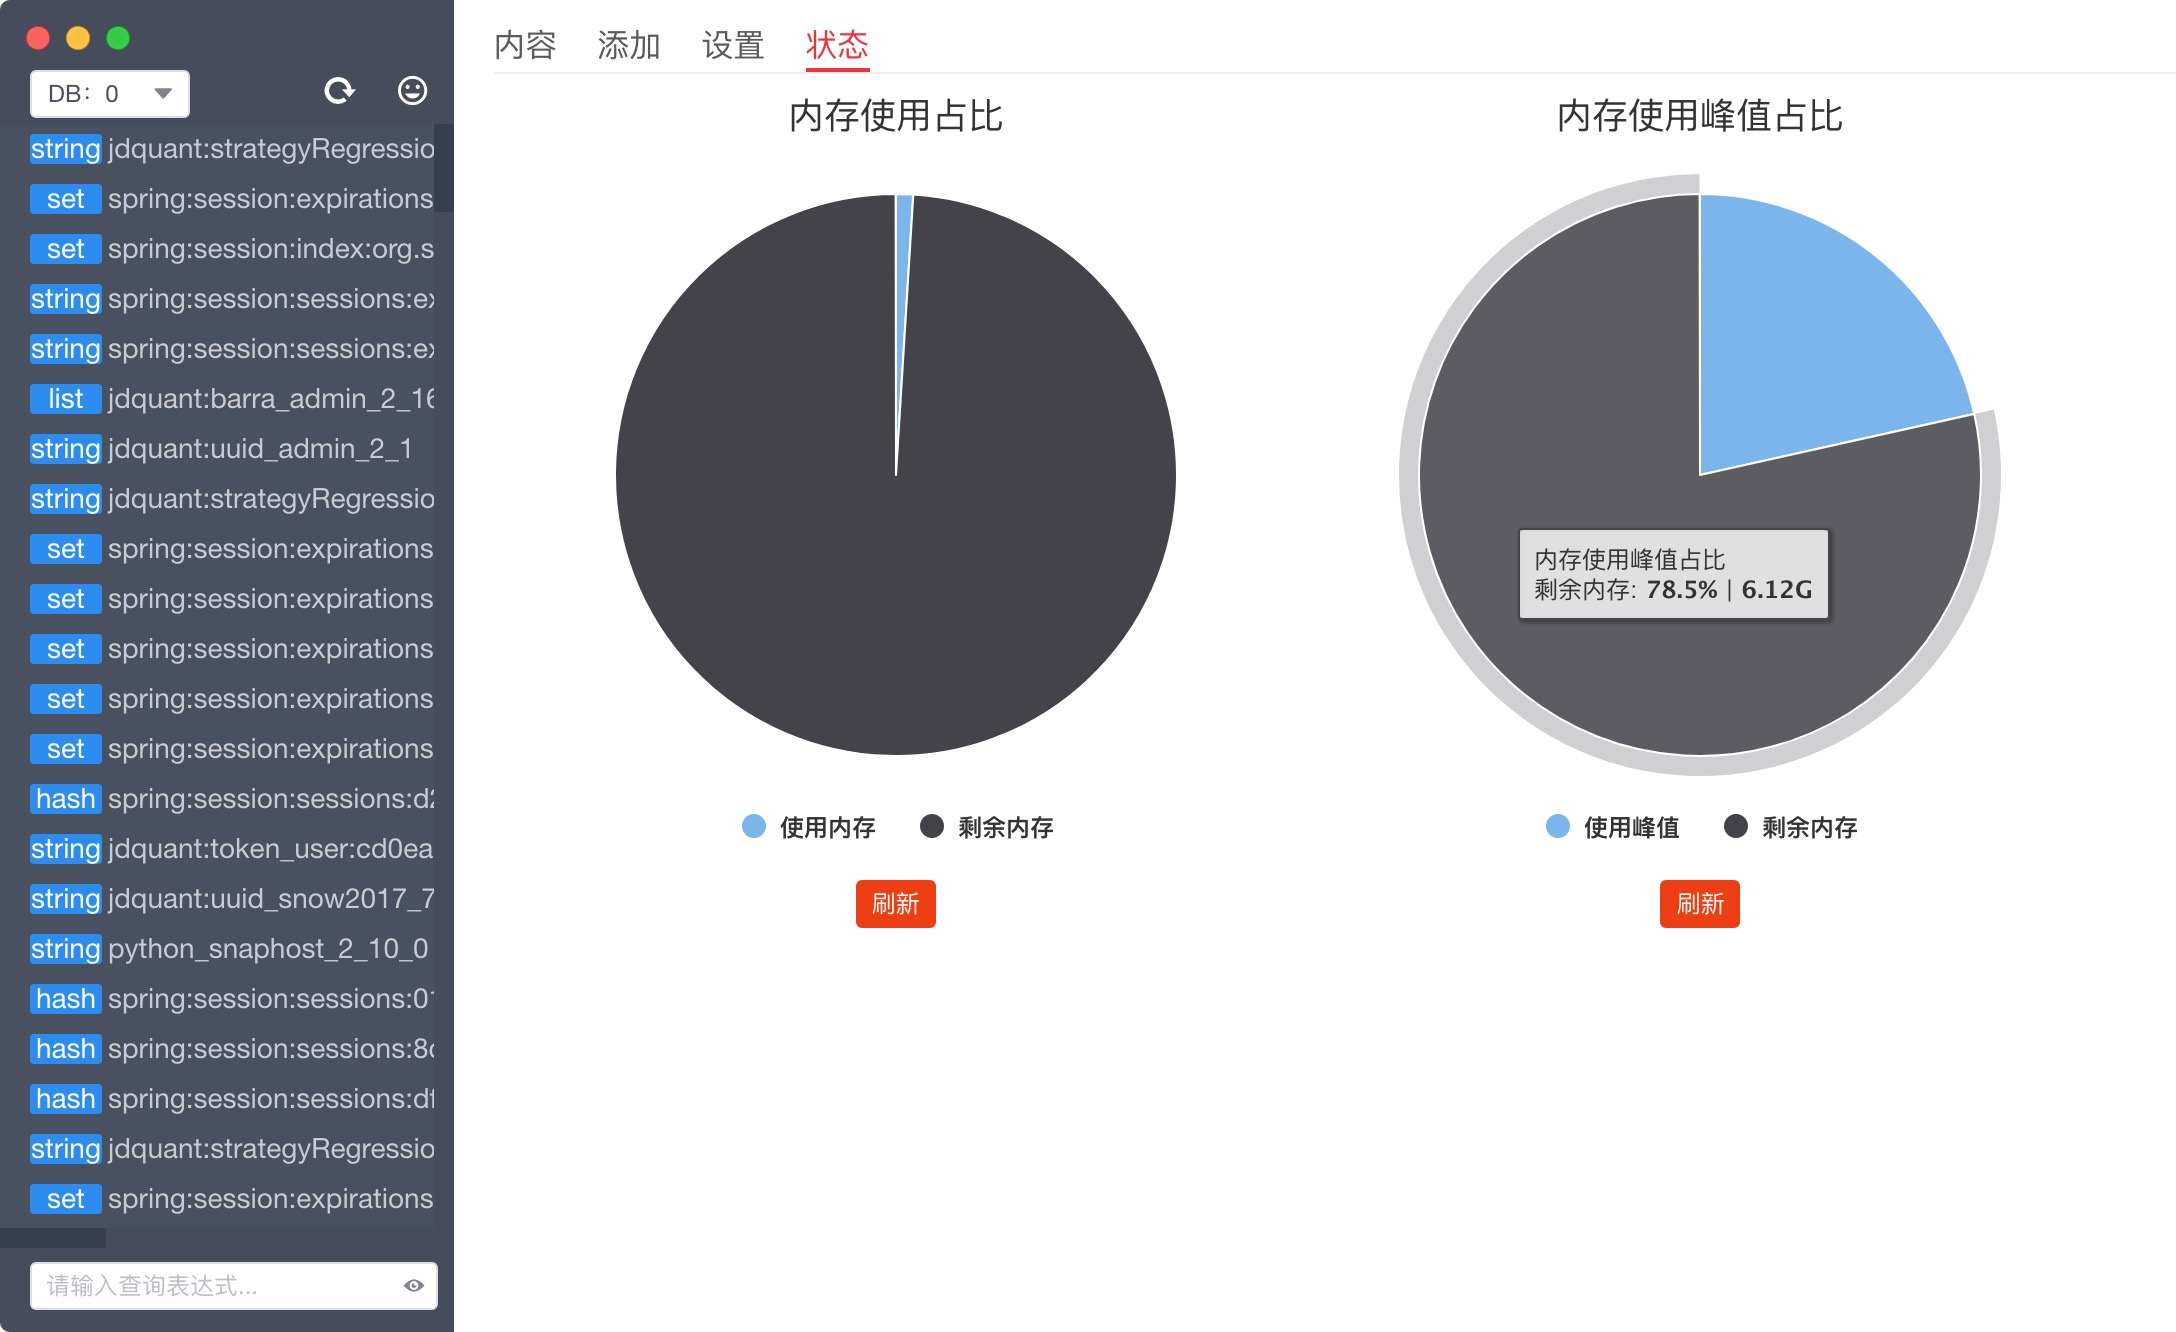
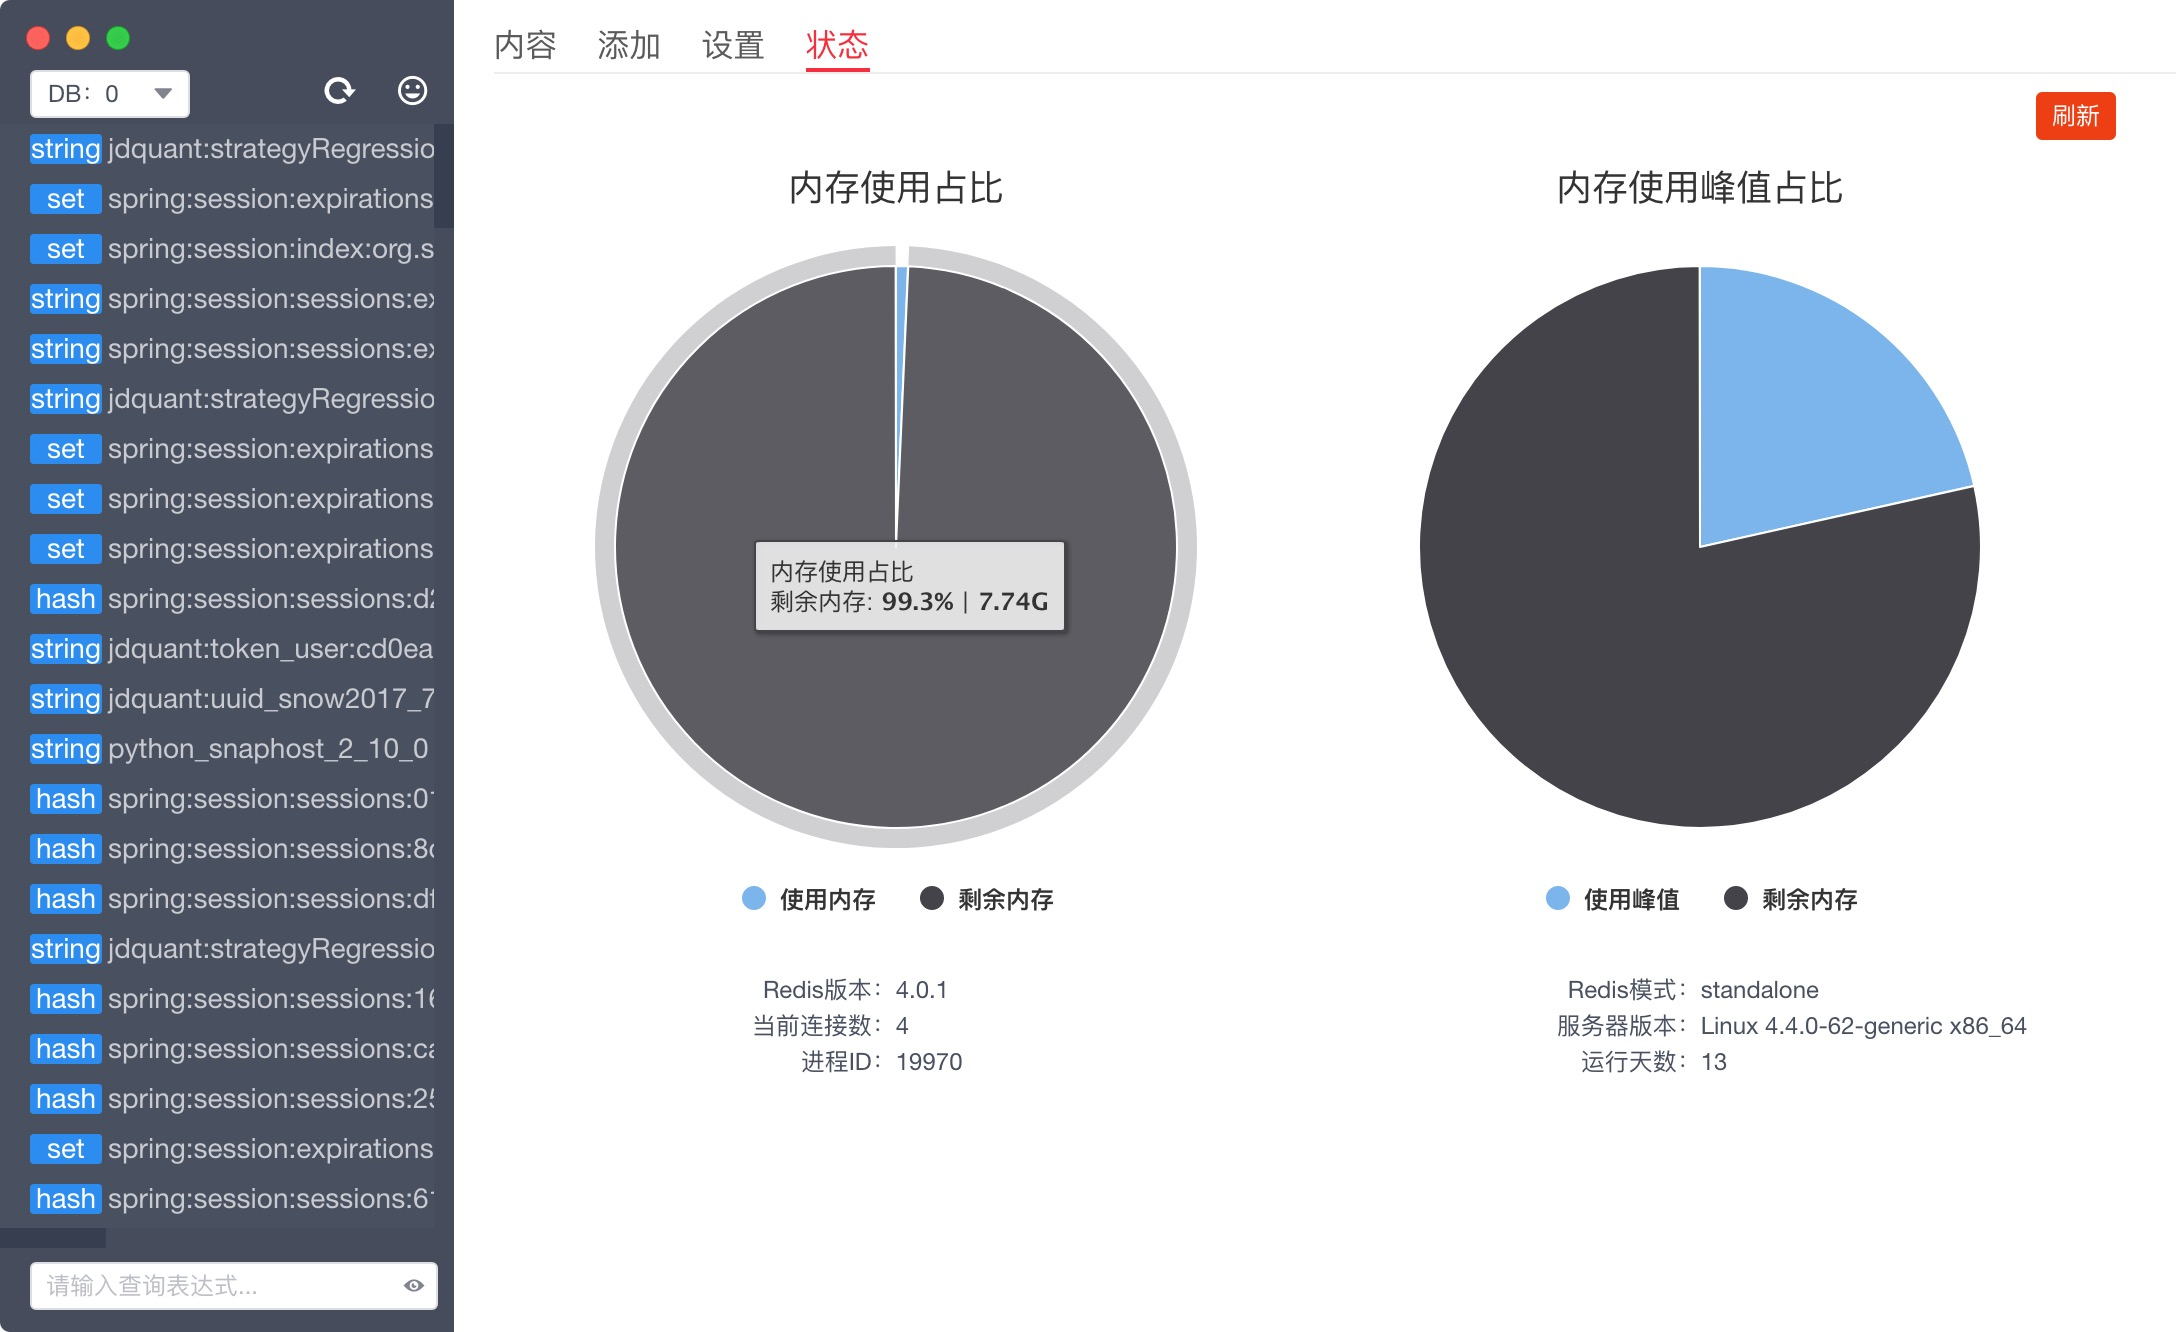
Update status page

diff --git a/src/components/Status.vue b/src/components/Status.vue
@@ -1,26 +1,70 @@
 <template>
     <div style="" id="statusDiv">
-        <!-- <div class="quyu clearfix">
+        <div class="quyu clearfix">
             <div class="q-left"></div>
-            <Button type="error" class="delete" size="small" @click="refreshStatus($route.params.key)">刷新</Button>
-            <a href="javascript:;" class="delete" @click="deleteKey($route.params.key)">删除</a>
-        </div> -->
+            <Button type="error" class="delete" size="small" @click="refreshStatus">刷新</Button>
+            <!--<a href="javascript:;" class="delete" @click="deleteKey($route.params.key)">删除</a>-->
+        </div>
         <div class="text-area">
-            <div style="width: 98%" class="clearfix">
+            <div style="width: 98%">
                 <Row align="middle">
                     <Col span="12">
-                    <div id="serverChart">
+                    <div style="height:400px" id="serverChart">
                     </div>
-                    <p style="text-align:center">
-                        <Button type="error" size="small" @click="refreshStatus">刷新</Button>
-                    </p>
+                    <!--<p style="text-align:center;">-->
+                        <!--<Button type="error" size="small" @click="refreshStatus">刷新</Button>-->
+                    <!--</p>-->
                     </Col>
                     <Col span="12">
-                    <div id="memoryChart">
+                    <div style="height:400px" id="memoryChart">
                     </div>
-                    <p style="text-align:center">
-                        <Button type="error" size="small" @click="refreshStatus">刷新</Button>
-                    </p>
+                    <!--<p style="text-align:center;">-->
+                        <!--<Button type="error" size="small" @click="refreshStatus">刷新</Button>-->
+                    <!--</p>-->
+                    </Col>
+                </Row>
+            </div>
+            <div style="width: 98%; margin-top: 10px">
+                <Row align="middle">
+                    <Col span="6" style="text-align: right">
+                    Redis版本：
+                    </Col>
+                    <Col span="6">
+                    {{serverInfo.redis_version}}
+                    </Col>
+                    <Col span="6" style="text-align: right">
+                    Redis模式：
+                    </Col>
+                    <Col span="6">
+                    {{serverInfo.redis_mode}}
+                    </Col>
+                </Row>
+                <Row align="middle">
+                    <Col span="6" style="text-align: right">
+                    当前连接数：
+                    </Col>
+                    <Col span="6">
+                    {{clientInfo.connected_clients}}
+                    </Col>
+                    <Col span="6" style="text-align: right">
+                    服务器版本：
+                    </Col>
+                    <Col span="6">
+                    {{serverInfo.os}}
+                    </Col>
+                </Row>
+                <Row align="middle">
+                    <Col span="6" style="text-align: right">
+                    进程ID：
+                    </Col>
+                    <Col span="6">
+                    {{serverInfo.process_id}}
+                    </Col>
+                    <Col span="6" style="text-align: right">
+                    运行天数：
+                    </Col>
+                    <Col span="6">
+                    {{serverInfo.uptime_in_days}}
                     </Col>
                 </Row>
             </div>
@@ -52,6 +96,8 @@
 <script>
     import Highcharts from 'highcharts';
     import $ from 'jquery';
+    const ipc = require('electron').remote.ipcMain;
+//    const ipc = require('electron').remote.ipcRenderer;
 
     require('highcharts/modules/exporting')(Highcharts);
     require('highcharts/highcharts-more')(Highcharts);
@@ -64,7 +110,10 @@
                 delDBModel: false,
                 modalLoading: false,
                 memoryData: [],
-                memoryPeakData: []
+                memoryPeakData: [],
+                clientInfo: {connected_clients: 0},
+                serverInfo: {},
+                dbInfo: {}
             }
         },
         computed: {
@@ -75,7 +124,6 @@
         methods: {
             refreshStatus: function () {
                 let self = this;
-                $('#serverChart').html('');
                 let usedMemory = {};
                 let totalMemory = {};
                 let usedMemoryPeak = {};
@@ -125,9 +173,67 @@
                         console.log(res);
                         alert(res);
                     });
+                    self.redis.info("clients").then(function (result) {
+                        console.log(result.split('\n'));
+                        result.split('\n').forEach(function (element) {
+                             if (element.indexOf('connected_clients:') >= 0) {
+                                 self.clientInfo.connected_clients = parseFloat(element.replace('connected_clients:', ''));
+                             }
+                             if (element.indexOf('client_biggest_input_buf:') >= 0) {
+                                 self.clientInfo.client_biggest_input_buf = parseFloat(element.replace('client_biggest_input_buf:', ''));
+                             }
+                        });
+
+                    }).catch(res => {
+                        console.log(res);
+                        alert(res);
+                    });
+                    self.redis.info("server").then(function (result) {
+                        console.log(result.split('\n'));
+                        result.split('\n').forEach(function (element) {
+                            if (element.indexOf('redis_version:') >= 0) {
+                                self.serverInfo.redis_version = element.replace('redis_version:', '');
+                            }
+                            if (element.indexOf('redis_mode:') >= 0) {
+                                self.serverInfo.redis_mode = element.replace('redis_mode:', '');
+                            }
+                            if (element.indexOf('os:') >= 0) {
+                                self.serverInfo.os = element.replace('os:', '');
+                            }
+                            if (element.indexOf('arch_bits:') >= 0) {
+                                self.serverInfo.arch_bits = element.replace('arch_bits:', '');
+                            }
+                            if (element.indexOf('process_id:') >= 0) {
+                                self.serverInfo.process_id = element.replace('process_id:', '');
+                            }
+                            if (element.indexOf('tcp_port:') >= 0) {
+                                self.serverInfo.tcp_port = element.replace('tcp_port:', '');
+                            }
+                            if (element.indexOf('uptime_in_days:') >= 0) {
+                                self.serverInfo.uptime_in_days = element.replace('uptime_in_days:', '');
+                            }
+                            if (element.indexOf('config_file:') >= 0) {
+                                self.serverInfo.config_file = element.replace('config_file:', '');
+                            }
+                        });
+                    }).catch(res => {
+                        console.log(res);
+                        alert(res);
+                    });
+                    self.redis.info("keyspace").then(function (result) {
+                        console.log(result.split('\n'));
+                        result.split('\n').forEach(function (element) {
+                            if (element.indexOf('db0:keys=') >= 0) {
+                                self.dbInfo.db0Keys = element.replace('db0:keys=', '');
+                            }
+                        });
+                    }).catch(res => {
+                        console.log(res);
+                        alert(res);
+                    });
                 } else {
-                    self.drawServerChart([{name: '使用内存', y: 0},{name: '剩余内存', y: 0}]);
-                    self.drawMemoryChart([{name: '峰值内存', y: 0},{name: '剩余内存', y: 0}]);
+                    self.drawServerChart([{name: '使用内存', y: 0}, {name: '剩余内存', y: 0}]);
+                    self.drawMemoryChart([{name: '峰值内存', y: 0}, {name: '剩余内存', y: 0}]);
                 }
             },
             drawMemoryChart: function (dataArray) {
@@ -156,9 +262,13 @@
                             allowPointSelect: true,
                             cursor: 'pointer',
                             dataLabels: {
-                                enabled: false
+                                enabled: false,
+                                format: '<b>{point.name}</b>: {point.percentage:.1f} % | {point.human}',
+                                style: {
+                                    color: (Highcharts.theme && Highcharts.theme.contrastTextColor) || 'black'
+                                }
                             },
-                            showInLegend: true
+                            showInLegend: true //显示
                         }
                     },
                     series: [{
@@ -194,9 +304,13 @@
                             allowPointSelect: true,
                             cursor: 'pointer',
                             dataLabels: {
-                                enabled: false
+                                enabled: false,
+                                format: '<b>{point.name}</b>: {point.percentage:.1f} % | {point.human}',
+                                style: {
+                                    color: (Highcharts.theme && Highcharts.theme.contrastTextColor) || 'black'
+                                }
                             },
-                            showInLegend: true
+                            showInLegend: true //显示
                         }
                     },
                     series: [{
@@ -214,7 +328,11 @@
             let self = this;
             let $ = self.$;
             console.log("status mounted...");
-//            self.refreshStatus();
+            ipc.on('redisConnectionDone', function (event, arg) {
+                if(arg === 'success'){
+                    self.refreshStatus();
+                }
+            })
         },
         watch: {
             // 如果路由有变化，会再次执行该方法
@@ -237,8 +355,8 @@
 
     .quyu {
         padding: 13px 0 23px 0;
-        border-bottom: 1px solid #e9eaec;
-        line-height: 1;
+        /*border-bottom: 1px solid #e9eaec;*/
+        /*line-height: 1;*/
     }
 
     .content-new .q-left {
@@ -257,9 +375,9 @@
     }
 
     .text-area {
-        /* position: absolute; */
+        /*position: absolute;*/
         left: 0;
-        top: 45px;
+        top: 0px;
         /* right: 0; */
         bottom: 10px;
         overflow-y: auto;

diff --git a/src/components/SubMain.vue b/src/components/SubMain.vue
@@ -168,6 +168,7 @@
                 console.log(promise);
                 promise.then(
                     function (redis) {
+                        ipc.send('redisConnectionDone', 'success');
                         rds.getDBCount().then(
                             result => self.dbNums = result,
                             message => alert(message)
